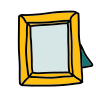
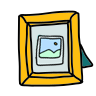
button d-none et cadre grossi

Changed region(s): [[0.3438, 0.3438, 0.6875, 0.6875]]

diff --git a/app/assets/stylesheets/components/_level1.scss b/app/assets/stylesheets/components/_level1.scss
@@ -1,38 +1,3 @@
-/* .perspectiveRight {
-  -webkit-animation-name: perspectiveRight;
-  animation-name: perspectiveRight;
-}
-@-webkit-keyframes perspectiveRight {
-  0% {
-    -webkit-transform-origin: 100% 0;
-    transform-origin: 100% 0;
-    -webkit-transform: perspective(800px) rotateY(0deg);
-    transform: perspective(800px) rotateY(0deg);
-  }
-
-  100% {
-    -webkit-transform-origin: 100% 0;
-    transform-origin: 100% 0;
-    -webkit-transform: perspective(800px) rotateY(180deg);
-    transform: perspective(800px) rotateY(180deg);
-  }
-}
-@keyframes perspectiveRight {
-  0% {
-    -webkit-transform-origin: 100% 0;
-    transform-origin: 100% 0;
-    -webkit-transform: perspective(800px) rotateY(0deg);
-    transform: perspective(800px) rotateY(0deg);
-  }
-
-  100% {
-    -webkit-transform-origin: 100% 0;
-    transform-origin: 100% 0;
-    -webkit-transform: perspective(800px) rotateY(180deg);
-    transform: perspective(800px) rotateY(180deg);
-  }
-}
- */
 .card-flip{
   transform: rotateY(180deg);
 }

diff --git a/app/javascript/controllers/level_2_controller.js b/app/javascript/controllers/level_2_controller.js
@@ -2,7 +2,7 @@ import { Controller } from "@hotwired/stimulus"
 
 // Connects to data-controller="level-2"
 export default class extends Controller {
-  static targets = ["bubble", "progression", "mouse", "brusalii-open", "cursorkey", "key", "homekey"]
+  static targets = ["bubble", "progression", "mouse", "brusalii-open", "cursorkey", "key", "homekey", "brusaliicave"]
   connect() {
     setTimeout(() => {
       const event = new CustomEvent("progess", { detail: { target: this.progressionTarget, desiredWidth: 43 } })
@@ -14,6 +14,7 @@ export default class extends Controller {
   takeKey(evt){
     this.cursorkeyTarget.classList.add("custom-cursor");
     this.homekeyTarget.classList.remove("d-none");
+    this.brusaliicaveTarget.classList.add("d-none");
     evt.currentTarget.src = "http://res.cloudinary.com/dwwqcadjv/image/upload/v1/development/aaqw22s37ljtnq1fjiexbsc9qx7s";
     evt.currentTarget.removeAttribute('data-action');
   }

diff --git a/app/javascript/controllers/level_3_controller.js b/app/javascript/controllers/level_3_controller.js
@@ -2,7 +2,7 @@ import { Controller } from "@hotwired/stimulus"
 
 // Connects to data-controller="level-3"
 export default class extends Controller {
-  static targets = ["bubble", "progression", "mouse", "broom"]
+  static targets = ["bubble", "progression", "mouse", "broom", "cadre"]
 
   connect() {
     setTimeout(() => {
@@ -24,7 +24,10 @@ export default class extends Controller {
   }
 
   toCart(){
+    this.cadreTarget.classList.add("jump-cadre-cave")
+
     setTimeout(() => {
+
       fetch('/games/update', {
         method: 'PATCH',
         headers: {
@@ -45,7 +48,7 @@ export default class extends Controller {
         });
 
         window.location.href = "/cart";
-    }, 2000);
+    }, 5000);
 
   }
 

diff --git a/app/assets/stylesheets/pages/_cave.scss b/app/assets/stylesheets/pages/_cave.scss
@@ -147,3 +147,7 @@
     -webkit-user-select: none;
     user-select: none;
   }
+
+  .jump-cadre-cave {
+    transform: scale(2);
+  }

diff --git a/app/assets/stylesheets/pages/_indexitem.scss b/app/assets/stylesheets/pages/_indexitem.scss
@@ -82,4 +82,5 @@
   height: 35px;
   margin: 5px;
   border-style: none;
+  margin-left: 32px;
 }
